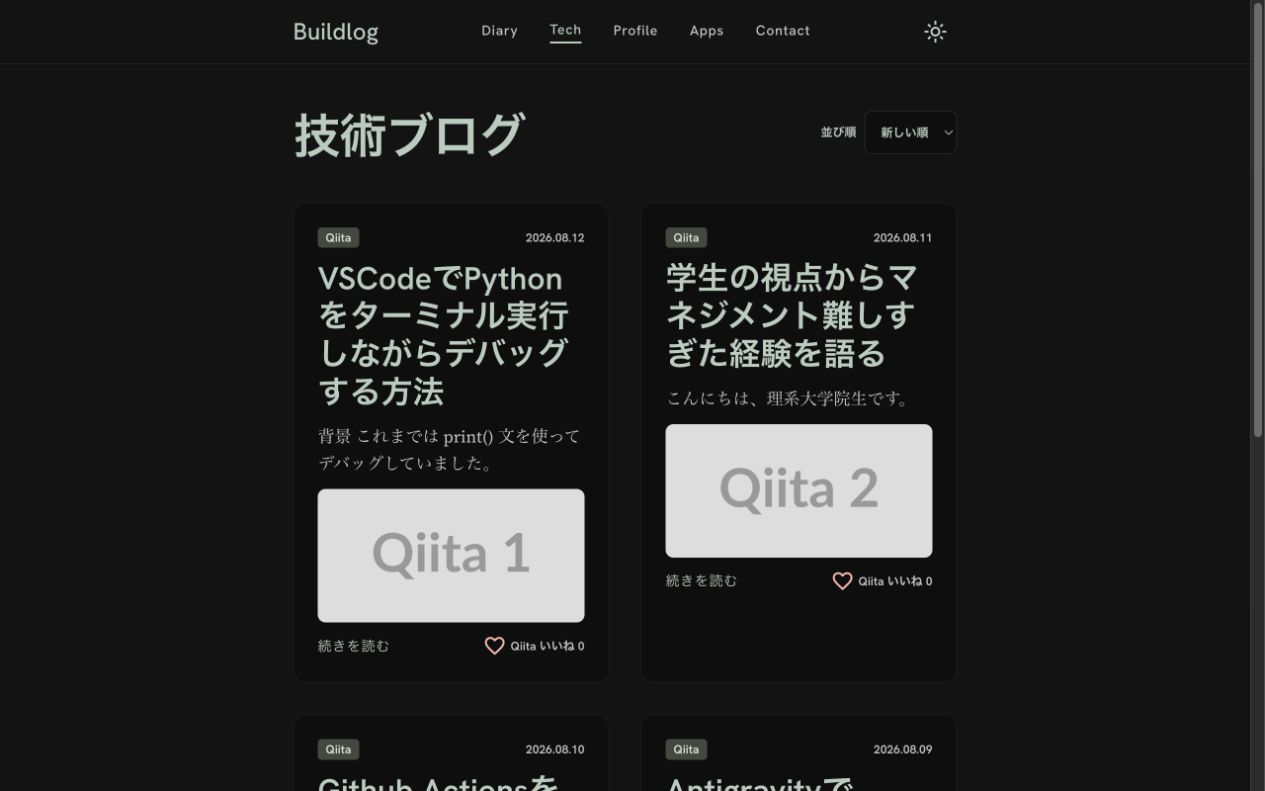
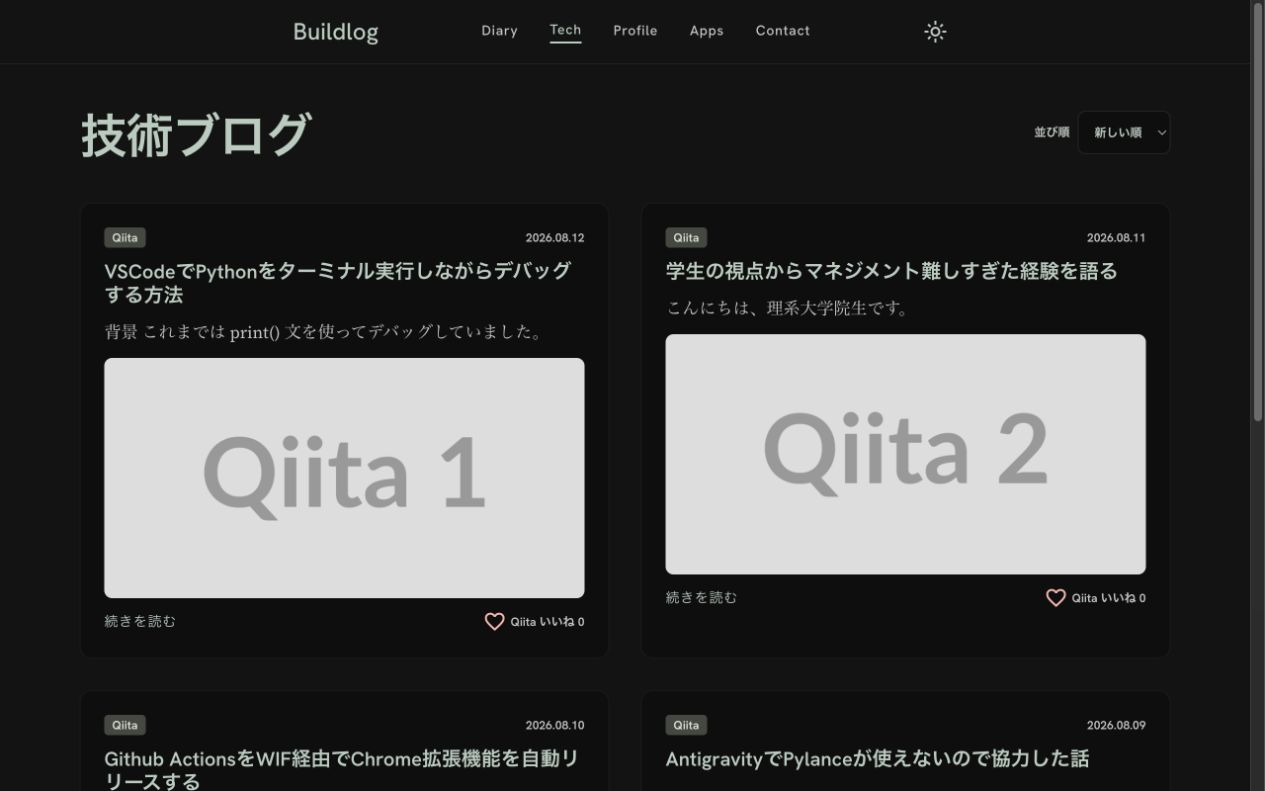
fix: PCの技術記事カード幅を広げる

diff --git a/web/src/lib/components/TechFeed.svelte b/web/src/lib/components/TechFeed.svelte
@@ -111,7 +111,7 @@
 	});
 </script>
 
-<div class="editorial-container mx-auto flex flex-col gap-8 px-gutter">
+<div class="editorial-container mx-auto flex flex-col gap-8 px-gutter md:!max-w-6xl">
 	<section class="flex flex-wrap items-start justify-between gap-4">
 		<div>
 			{#if isAdmin}
@@ -158,7 +158,7 @@
 					</div>
 					<div class="flex items-center gap-4"><span class="font-label-sm text-label-sm text-on-surface-variant">{formatDate(article.createdAt)}</span></div>
 				</div>
-				<h3 class="font-headline-lg text-[20px] leading-tight text-primary decoration-outline-variant decoration-1 underline-offset-4 transition-all group-hover:underline md:text-headline-lg">
+				<h3 class="font-headline-lg text-[20px] leading-tight text-primary decoration-outline-variant decoration-1 underline-offset-4 transition-all group-hover:underline md:!text-[20px]">
 				<!-- eslint-disable-next-line svelte/no-navigation-without-resolve -->
 				<a href={article.external ? articleHref(article) : resolve('/tech')} target={article.external ? '_blank' : undefined} rel={article.external ? 'noreferrer' : undefined}>{article.title}</a>
 				</h3>
